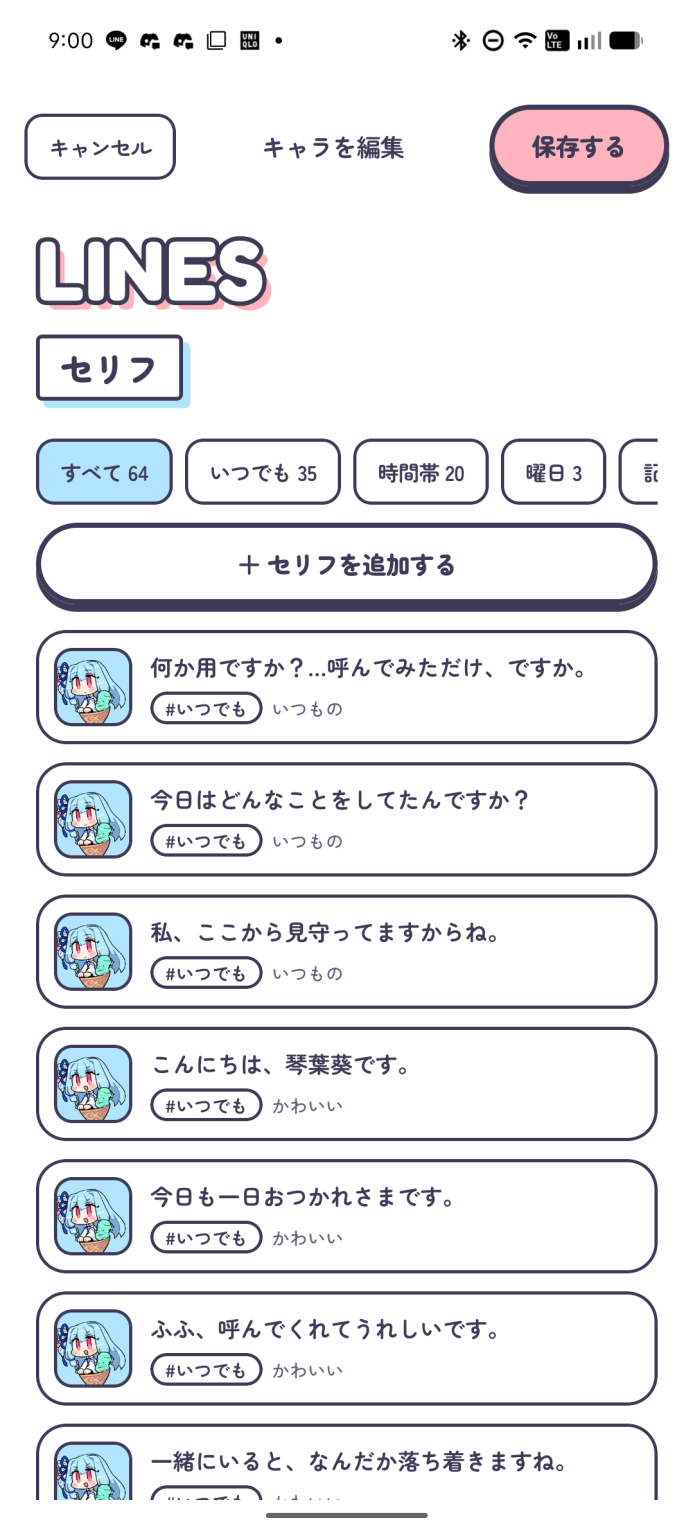
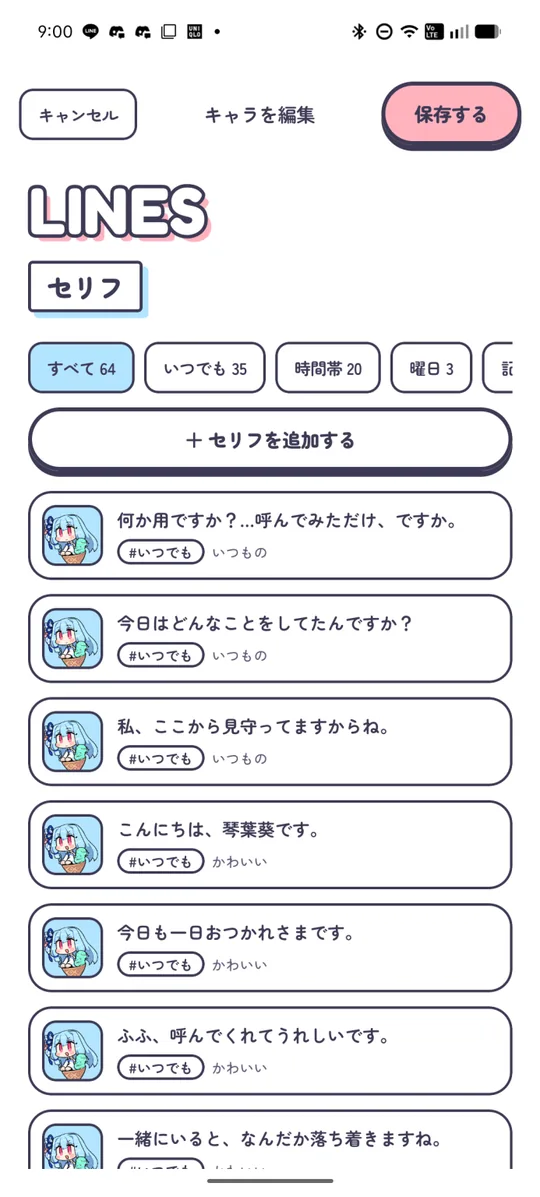
ファビコン・SNS 共有用の表示を入れ、画像を軽くする
- ファビコン：ロゴの「O」（水色の丸と波形）を切り出した SVG と、
  favicon.ico（16/32/48px）、iPhone 用の apple-touch-icon.png
- OGP：タイトル・説明・共有用の画像（public/ogp.png、1200×630）を入れた。
  画像は tools/ogp.html から作り直せる（手順はファイルの先頭）
- キャラのイラストを透過のまま WebP にし（444KB→101KB、392KB→91KB）、
  スクリーンショットは幅 540px に縮めた（4枚で 1.1MB→180KB）
- メインビジュアルのキャラは fetchpriority="high" で先に読み込む

diff --git a/tools/ogp.html b/tools/ogp.html
@@ -1,0 +1,96 @@
+<!doctype html>
+<!--
+  SNS で共有したときに出る画像（public/ogp.png、1200×630）の元。
+  作り直すときは、プロジェクトのルートで次を実行する（Chromium と ImageMagick を使う）：
+
+    chromium --headless=new --hide-scrollbars --window-size=1200,630 \
+      --virtual-time-budget=5000 --force-prefers-reduced-motion \
+      --screenshot=public/ogp.png "file://$PWD/tools/ogp.html"
+    magick public/ogp.png -strip -define png:compression-level=9 public/ogp.png
+
+  色・文字・形はデザインシステム（design-ref/tokens.json）の値。ロゴは Logo.svelte と同じ。
+-->
+<html lang="ja">
+<head>
+<meta charset="utf-8">
+<title>OGP</title>
+<link rel="preconnect" href="https://fonts.googleapis.com">
+<link rel="preconnect" href="https://fonts.gstatic.com" crossorigin>
+<link href="https://fonts.googleapis.com/css2?family=Fredoka:wght@600;700&family=Zen+Maru+Gothic:wght@700;900&display=block" rel="stylesheet">
+<style>
+  :root {
+    --surface: #ffffff; --pink: #ffb3be; --blue: #b3e4ff; --ink: #3d3a55; --on-ink: #ffffff;
+  }
+  * { box-sizing: border-box; margin: 0; }
+  body { width: 1200px; height: 630px; overflow: hidden; background: var(--surface); color: var(--ink); font-family: "Zen Maru Gothic", sans-serif; }
+  .stage { position: relative; width: 1200px; height: 630px; overflow: hidden; }
+  .bg { position: absolute; inset: 0; }
+  .chara { position: absolute; }
+  .akane { left: 560px; bottom: 70px; width: 420px; }
+  .aoi { right: 20px; bottom: 90px; width: 290px; }
+  .lead { position: absolute; left: 64px; top: 70px; width: 440px; display: flex; flex-direction: column; align-items: center; gap: 22px; }
+  .badge { padding: 6px 16px; background: var(--ink); color: var(--on-ink); border-radius: 6px; font-weight: 900; font-size: 22px; line-height: 1.4; }
+  .logo { width: 100%; overflow: visible; }
+  .k { font: 700 92px "Fredoka", sans-serif; stroke: var(--ink); stroke-width: 10px; paint-order: stroke fill; stroke-linejoin: round; }
+  .catch { text-align: center; font-weight: 900; font-size: 34px; line-height: 1.7; letter-spacing: 0.12em; }
+  .catch span { background: var(--surface); padding: 2px 10px; }
+  .tape { position: absolute; left: -40px; right: -40px; bottom: 26px; height: 52px; display: flex; align-items: center; gap: 1.2em; white-space: nowrap; overflow: hidden; background: var(--pink); border-top: 3px solid var(--ink); border-bottom: 3px solid var(--ink); transform: rotate(-2deg); font: 700 24px/1 "Fredoka", sans-serif; letter-spacing: 0.12em; padding-left: 40px; }
+  .line { position: absolute; left: -40px; right: -40px; bottom: 14px; height: 9px; background: var(--blue); transform: rotate(-2deg); }
+</style>
+</head>
+<body>
+<div class="stage">
+  <svg class="bg" viewBox="0 0 1200 630" aria-hidden="true">
+    <defs>
+      <pattern id="dots" width="22" height="22" patternUnits="userSpaceOnUse"><circle cx="4" cy="4" r="3" fill="#ffb3be"/></pattern>
+      <path id="spk" d="M0 -18 C2 -3 3 -2 18 0 C3 2 2 3 0 18 C-2 3 -3 2 -18 0 C-3 -2 -2 -3 0 -18 Z"/>
+    </defs>
+    <rect x="0" y="0" width="300" height="230" fill="url(#dots)" opacity="0.6"/>
+    <rect x="960" y="0" width="240" height="200" fill="url(#dots)" opacity="0.6"/>
+    <!-- 斜め2色の帯（上辺が右にずれる向き） -->
+    <polygon points="700,0 1010,0 850,630 540,630" fill="#ffb3be"/>
+    <polygon points="1010,0 1130,0 970,630 850,630" fill="#b3e4ff"/>
+    <polygon points="688,0 702,0 542,630 528,630" fill="#b3e4ff"/>
+    <use href="#spk" transform="translate(560 120) scale(1.4)" fill="#b3e4ff"/>
+    <use href="#spk" transform="translate(1130 300) scale(1.1)" fill="#ffb3be"/>
+    <use href="#spk" transform="translate(1000 470) scale(0.8)" fill="#b3e4ff"/>
+  </svg>
+
+  <img class="chara aoi" src="../src/lib/images/aoi.webp" alt="">
+  <img class="chara akane" src="../src/lib/images/akane.webp" alt="">
+
+  <div class="lead">
+    <p class="badge">推しが話しかけてくれる Androidアプリ</p>
+    <svg class="logo" viewBox="0 30 440 162" role="img" aria-label="VOICEROID POCKET">
+      <rect x="113" y="43" width="220" height="36" rx="18" fill="#3d3a55"/>
+      <rect x="110" y="40" width="220" height="36" rx="18" fill="#ffb3be" stroke="#3d3a55" stroke-width="3"/>
+      <text x="220" y="65" text-anchor="middle" fill="#3d3a55" style="font: 700 19px 'Fredoka', sans-serif; letter-spacing: 6px">VOICEROID</text>
+      <text x="100" y="174" text-anchor="end" class="k" fill="#3d3a55">P</text>
+      <circle cx="138" cy="142" r="34" fill="#3d3a55"/>
+      <text x="176" y="174" textLength="228" lengthAdjust="spacingAndGlyphs" class="k" fill="#3d3a55">CKET</text>
+      <text x="95" y="168" text-anchor="end" class="k" fill="#ffb3be">P</text>
+      <circle cx="133" cy="136" r="33" fill="#b3e4ff" stroke="#3d3a55" stroke-width="5"/>
+      <g fill="#3d3a55">
+        <rect x="112" y="130" width="6" height="12" rx="3"/><rect x="121" y="121" width="6" height="30" rx="3"/>
+        <rect x="130" y="125" width="6" height="22" rx="3"/><rect x="139" y="116" width="6" height="40" rx="3"/>
+        <rect x="148" y="129" width="6" height="14" rx="3"/>
+      </g>
+      <text x="171" y="168" textLength="228" lengthAdjust="spacingAndGlyphs" class="k"><tspan fill="#ffb3be">C</tspan><tspan fill="#b3e4ff">K</tspan><tspan fill="#ffb3be">E</tspan><tspan fill="#b3e4ff">T</tspan></text>
+      <path d="M410 70 C412 84 413 85 427 87 C413 89 412 90 410 104 C408 90 407 89 393 87 C407 85 408 84 410 70 Z" fill="#b3e4ff" stroke="#3d3a55" stroke-width="2.5" stroke-linejoin="round"/>
+      <path d="M40 64 C41.5 74 42 74.5 52 76 C42 77.5 41.5 78 40 88 C38.5 78 38 77.5 28 76 C38 74.5 38.5 74 40 64 Z" fill="#ffb3be" stroke="#3d3a55" stroke-width="2.5" stroke-linejoin="round"/>
+      <circle cx="372" cy="58" r="5" fill="#ffb3be" stroke="#3d3a55" stroke-width="2"/>
+    </svg>
+    <p class="catch">
+      <span style="box-shadow: 4px 4px 0 var(--pink)">あなたの毎日に</span><br>
+      <span style="box-shadow: 4px 4px 0 var(--blue)">推しのいる生活を</span>
+    </p>
+  </div>
+
+  <div class="line" aria-hidden="true"></div>
+  <div class="tape" aria-hidden="true">
+    <span>VOICEROID POCKET</span><span>✦</span><span>KOTONOHA AKANE</span><span>✦</span><span>KOTONOHA AOI</span><span>✦</span>
+    <span>VOICEROID POCKET</span><span>✦</span><span>KOTONOHA AKANE</span><span>✦</span><span>KOTONOHA AOI</span><span>✦</span>
+  </div>
+</div>
+</body>
+</html>

diff --git a/index.html b/index.html
@@ -3,8 +3,27 @@
   <head>
     <meta charset="UTF-8" />
     <meta name="viewport" content="width=device-width, initial-scale=1.0" />
-    <title>VOICEROID POCKET</title>
+    <title>VOICEROID POCKET｜推しが話しかけてくれる Android アプリ</title>
     <meta name="description" content="琴葉茜・琴葉葵が、ホーム画面のウィジェット・アプリ画面・通知で話しかけてくれる Android アプリ「VOICEROID POCKET」の紹介ページ。" />
+    <meta name="theme-color" content="#ffb3be" />
+
+    <!-- ファビコン（public/ に置いたもの。base のパスは Vite が付ける） -->
+    <link rel="icon" href="/favicon.ico" sizes="48x48" />
+    <link rel="icon" href="/favicon.svg" type="image/svg+xml" />
+    <link rel="apple-touch-icon" href="/apple-touch-icon.png" />
+
+    <!-- SNS で共有したときの表示。og:image と og:url は絶対 URL でないと読まれない -->
+    <meta property="og:type" content="website" />
+    <meta property="og:site_name" content="VOICEROID POCKET" />
+    <meta property="og:title" content="VOICEROID POCKET｜推しが話しかけてくれる Android アプリ" />
+    <meta property="og:description" content="琴葉茜・琴葉葵が、ホーム画面のウィジェット・アプリ画面・通知で話しかけてくれる Android アプリです。" />
+    <meta property="og:url" content="https://watagumo2000.github.io/PocketVOICEROID-web/" />
+    <meta property="og:image" content="https://watagumo2000.github.io/PocketVOICEROID-web/ogp.png" />
+    <meta property="og:image:width" content="1200" />
+    <meta property="og:image:height" content="630" />
+    <meta property="og:image:alt" content="VOICEROID POCKET のロゴと、琴葉 茜・琴葉 葵のイラスト" />
+    <meta property="og:locale" content="ja_JP" />
+    <meta name="twitter:card" content="summary_large_image" />
     <link rel="preconnect" href="https://fonts.googleapis.com" />
     <link rel="preconnect" href="https://fonts.gstatic.com" crossorigin />
     <link href="https://fonts.googleapis.com/css2?family=Fredoka:wght@500;600;700&family=Zen+Maru+Gothic:wght@500;700;900&display=swap" rel="stylesheet" />

diff --git a/src/lib/data.ts b/src/lib/data.ts
@@ -1,7 +1,7 @@
 // ページに出す文言とデータ。見本（design-ref/Top.dc.html）の文言をそのまま使っている。
 // [ ] で囲んだものはまだ決まっていない仮置き。
-import akaneImg from './images/akane.png'
-import aoiImg from './images/aoi.png'
+import akaneImg from './images/akane.webp'
+import aoiImg from './images/aoi.webp'
 import screenHome from './images/screens/home.webp'
 import screenWidget from './images/screens/widget.webp'
 import screenEditProfile from './images/screens/edit-profile.webp'

diff --git a/src/lib/components/Hero.svelte b/src/lib/components/Hero.svelte
@@ -72,6 +72,7 @@
       alt="琴葉 茜"
       width="956"
       height="1056"
+      fetchpriority="high"
       class="animate-bob md:absolute md:left-1/2 md:bottom-50 md:w-500 md:-ml-240 md:max-lg:w-420 md:max-lg:-ml-150 max-md:relative max-md:w-[min(380px,52%)] max-sm:mx-auto max-sm:mt-8 max-sm:w-[min(300px,82%)]"
     />
   </div>
